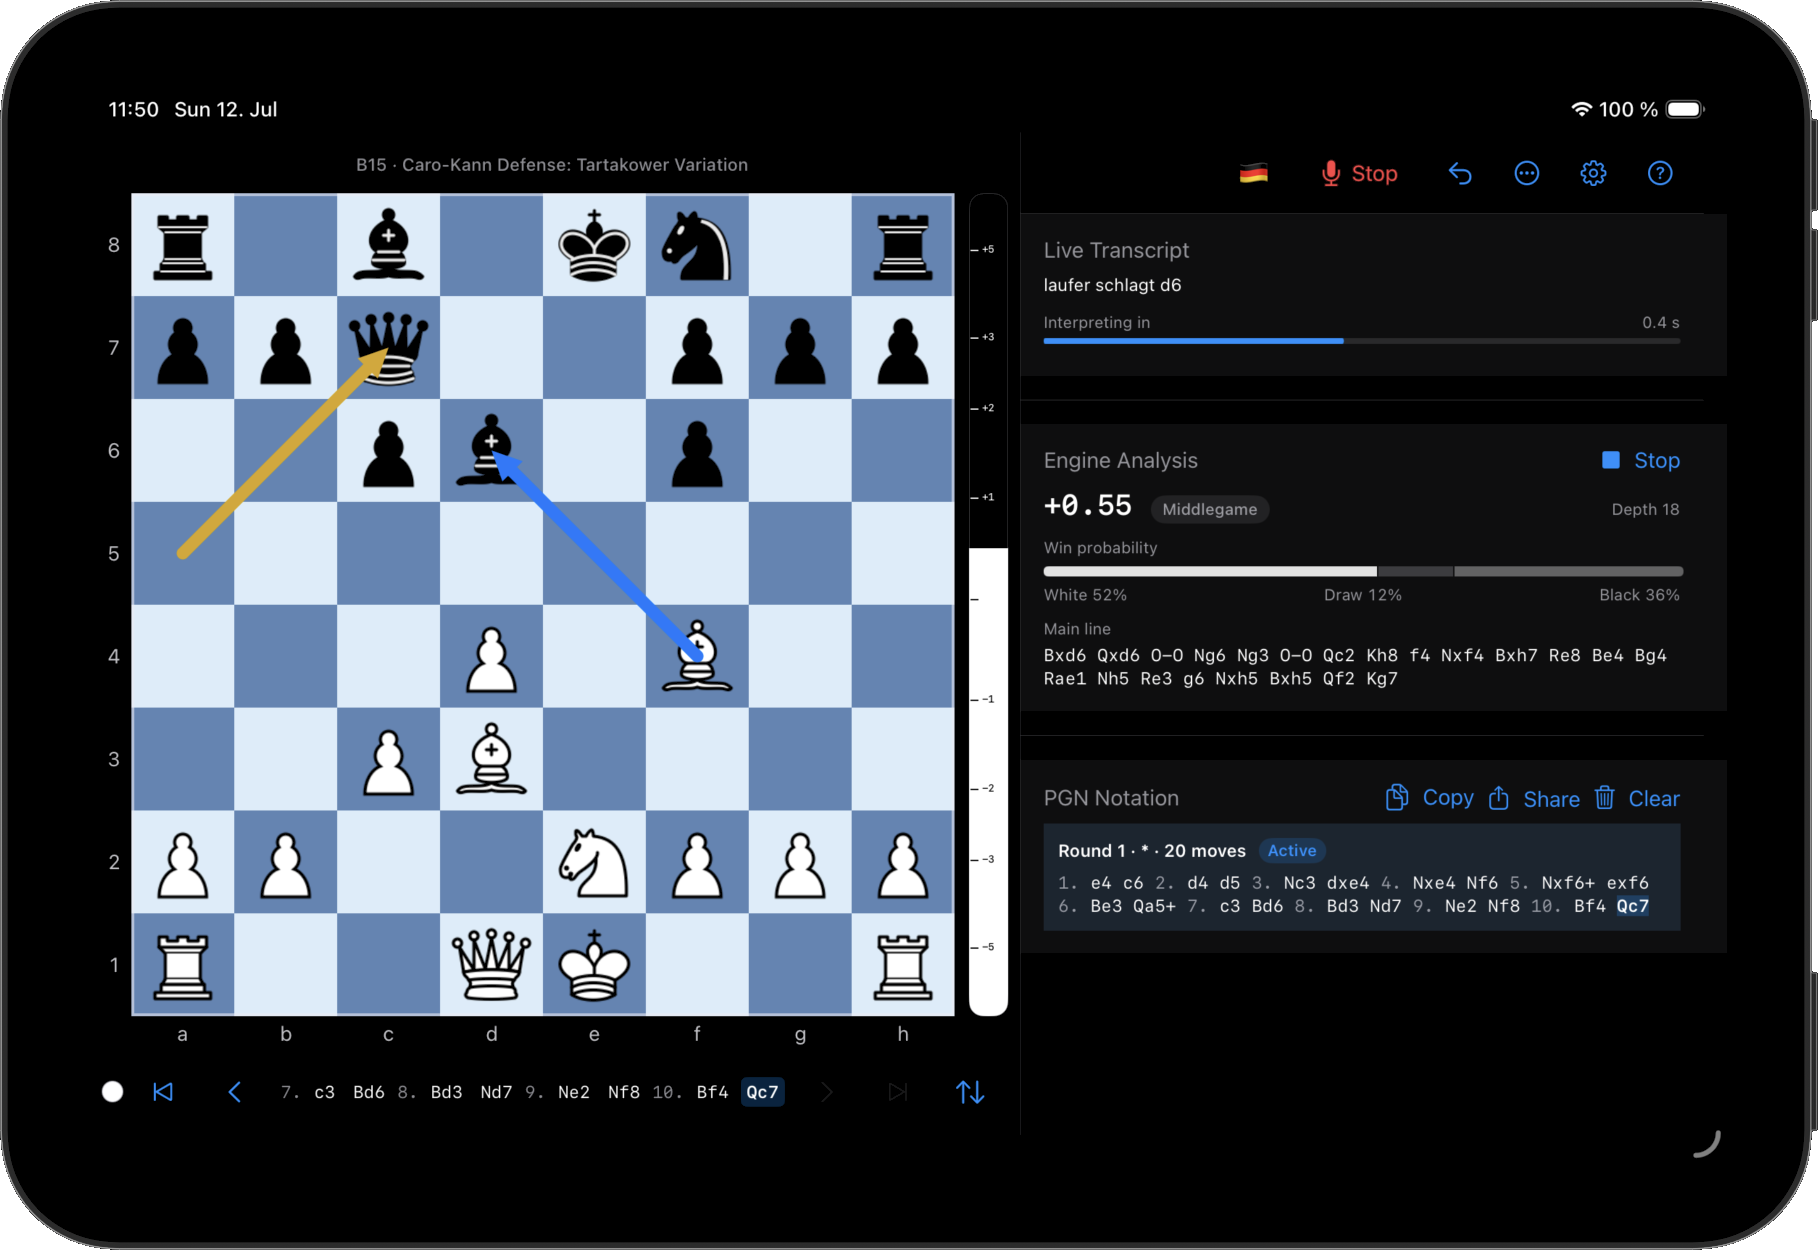
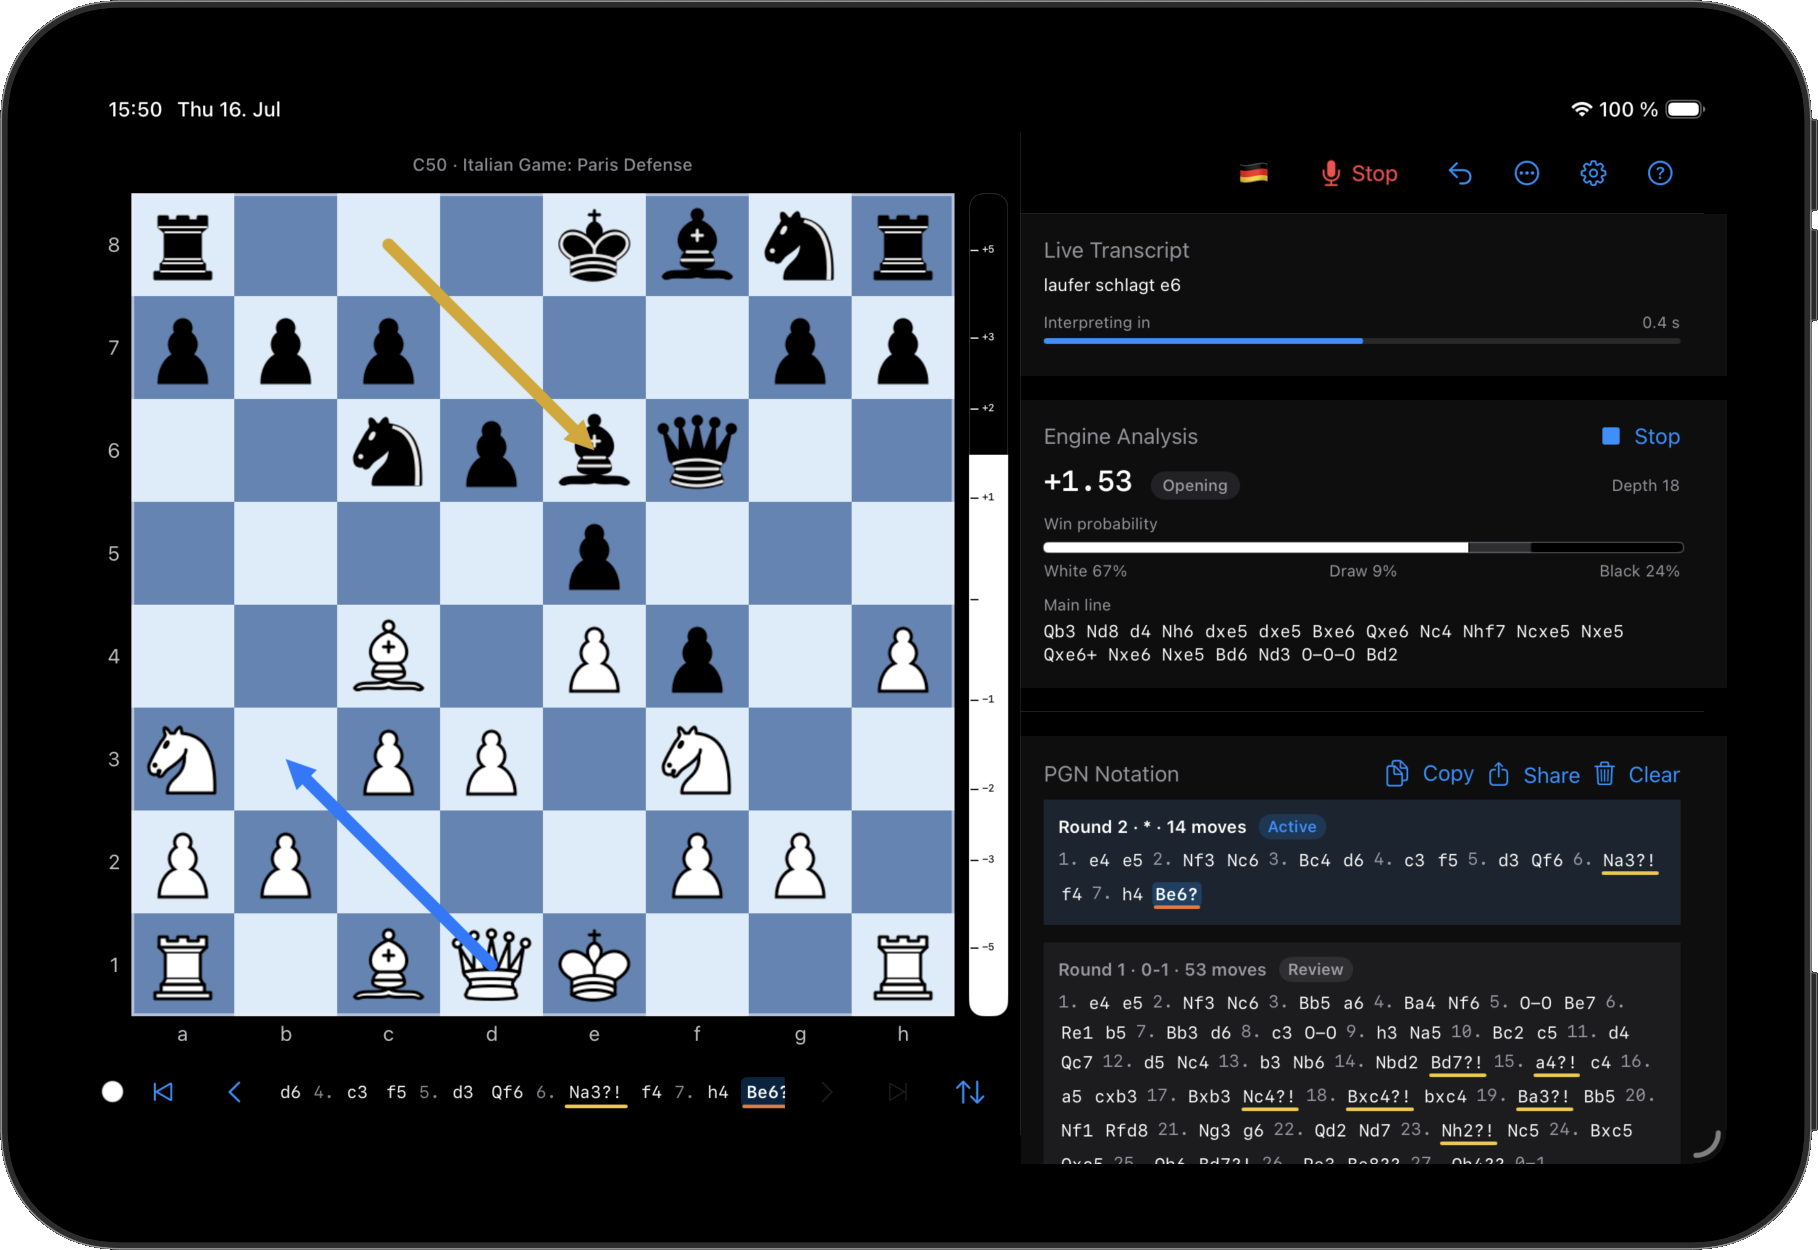
Update README features and refresh marketing screenshots.
Document move assessment, archive, and other recent capabilities, and replace the iPad landscape hero assets to match the current UI.

diff --git a/README.md b/README.md
@@ -6,7 +6,7 @@
 
 **Version 1.2**
 
-Chess Recorder is an iOS app for recording chess games by voice. Speak your moves in plain language — square names, piece names, captures, castling, and undo — and the app updates the board, builds the move list, and can export the game as PGN. Optional on-device engine analysis shows evaluation, a principal variation, and a best-move arrow while you record.
+Chess Recorder is an iOS app for recording chess games by voice. Speak your moves in plain language — square names, piece names, captures, castling, and undo — and the app updates the board, builds the move list, and can export games as PGN. Optional on-device engine analysis and background move assessment provide instant feedback while you record and review.
 
 ![Chess Recorder on iPad and iPhone — landscape and portrait views with board, live transcript, and engine analysis](Chess%20Recorder/Resources/Screenshots/multi_device_view1.PNG)
 
@@ -26,20 +26,28 @@ Chess Recorder is an iOS app for recording chess games by voice. Speak your move
 
 ### Board and notation
 
-- Interactive board with optional touch input for manual moves
-- Move list and PGN export (share sheet)
+- Interactive board with optional touch input for entering moves manually
+- Move navigation with scrubbing and jump controls
+- ECO code and opening name in the toolbar
 - Flip board orientation
-- Customizable board colors, coordinates, and piece size
+- Customizable board colors, coordinates, piece size, and more…
+- Multi-Game PGN export
 
 ### Engine analysis
 
 - Integrated **Stockfish** analysis via [LucidEngine](https://github.com/CarlosDanielDev/lucid-engine)
-- Evaluation bar, algebraic main line, and best-move arrow (each optional)
+- Evaluation, win probability, algebraic main line, and best-move arrow (each optional)
+
+### Move assessment
+
+- Background Stockfish review of played moves (separate from live analysis)
+- Inaccuracy, mistake, and blunder marks in the move list and PGN notation
+- Optional assessment symbols in exported PGN
 
 ### Rules and game state
 
 - Move validation and game logic via [ChessKit](https://github.com/chesskit-app/chesskit-swift)
-- Undo, new game, and PGN archive support
+- Undo, new game, multi-game archive, and session restore
 
 ## Requirements
 
@@ -92,10 +100,12 @@ In-app help (**?** in the toolbar) lists supported phrase patterns for English a
 
 ### Settings highlights
 
-- Speech language (English / Deutsch) and dictation pause
-- Engine analysis visibility, depth, evaluation bar, algebraic line, and arrow
-- Board appearance and touch input
-- Learned phrases and corrections
+- Speech language (English / Deutsch) and dictation pause length
+- Engine depth and which analysis overlays to show (including arrow color)
+- Move assessment on/off, search depth, and quality colors
+- Whether assessment symbols are included in PGN export
+- Board appearance, piece size, and touch-input highlight color
+- Default PGN header fields and learned phrase management
 
 ## Project layout
 